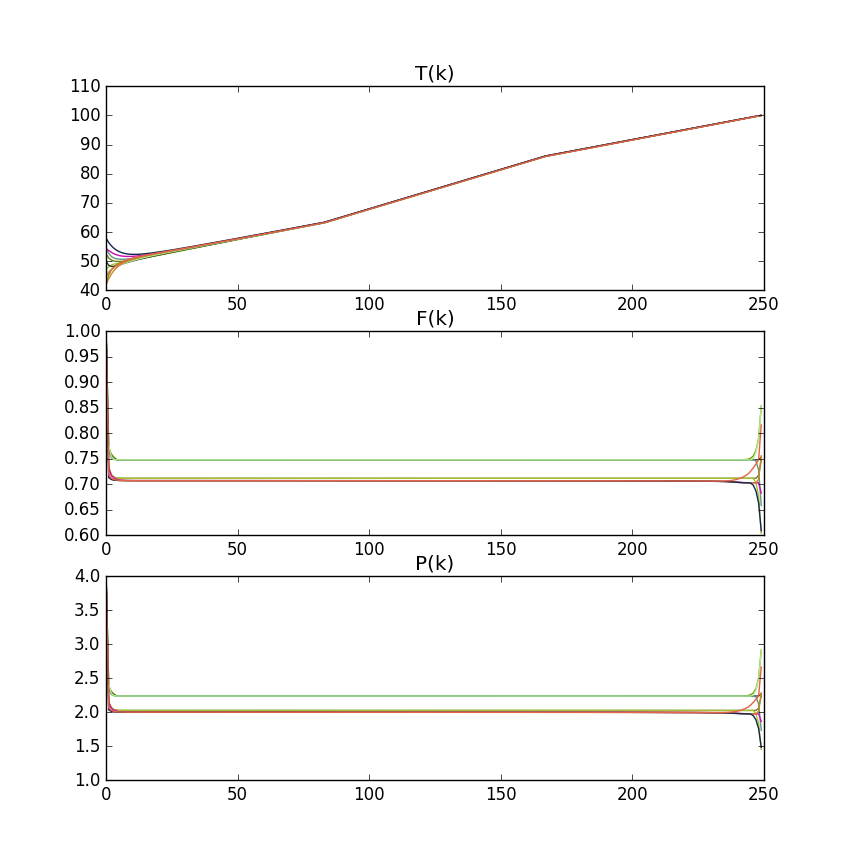
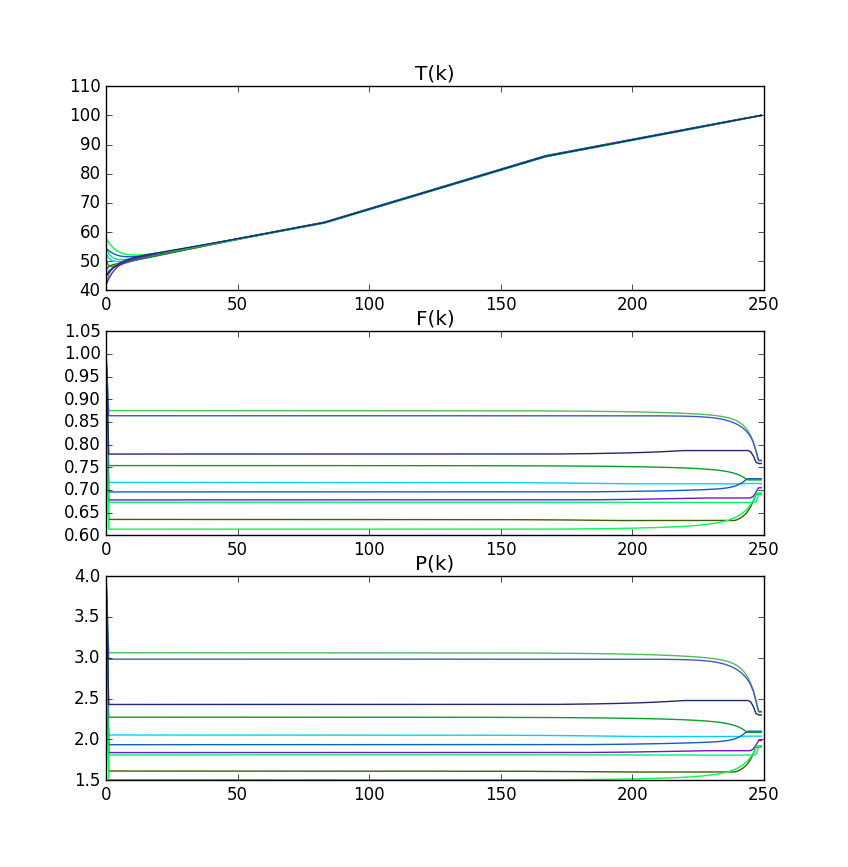
corrigido

diff --git a/trial1_f.py b/trial1_f.py
@@ -78,7 +78,7 @@ for k in range(K):
 
 
 for i in range(len(Ro)):
-    objective = Minimize(-SumF + tv(F.T)*Ro[i])
+    objective = Minimize(-SumF + sum([tv(F[:,i]) for i in range(tot_cores)])*Ro[i])
     prob = Problem(objective, constraints)
     result = prob.solve()
     sumFreqs[i] = SumF.value

diff --git a/trial1_3.py b/trial1_3.py
@@ -57,7 +57,7 @@ OscTerm = Variable(1)
 #----------------------------------------------------------------------------
 
 # Definição do problema
-objective = Minimize(-SumF + tv(F.T)*p)
+objective = Minimize(-SumF + sum([tv(F[:,i]) for i in range(tot_cores)])*p)
 
 constraints = []
 
